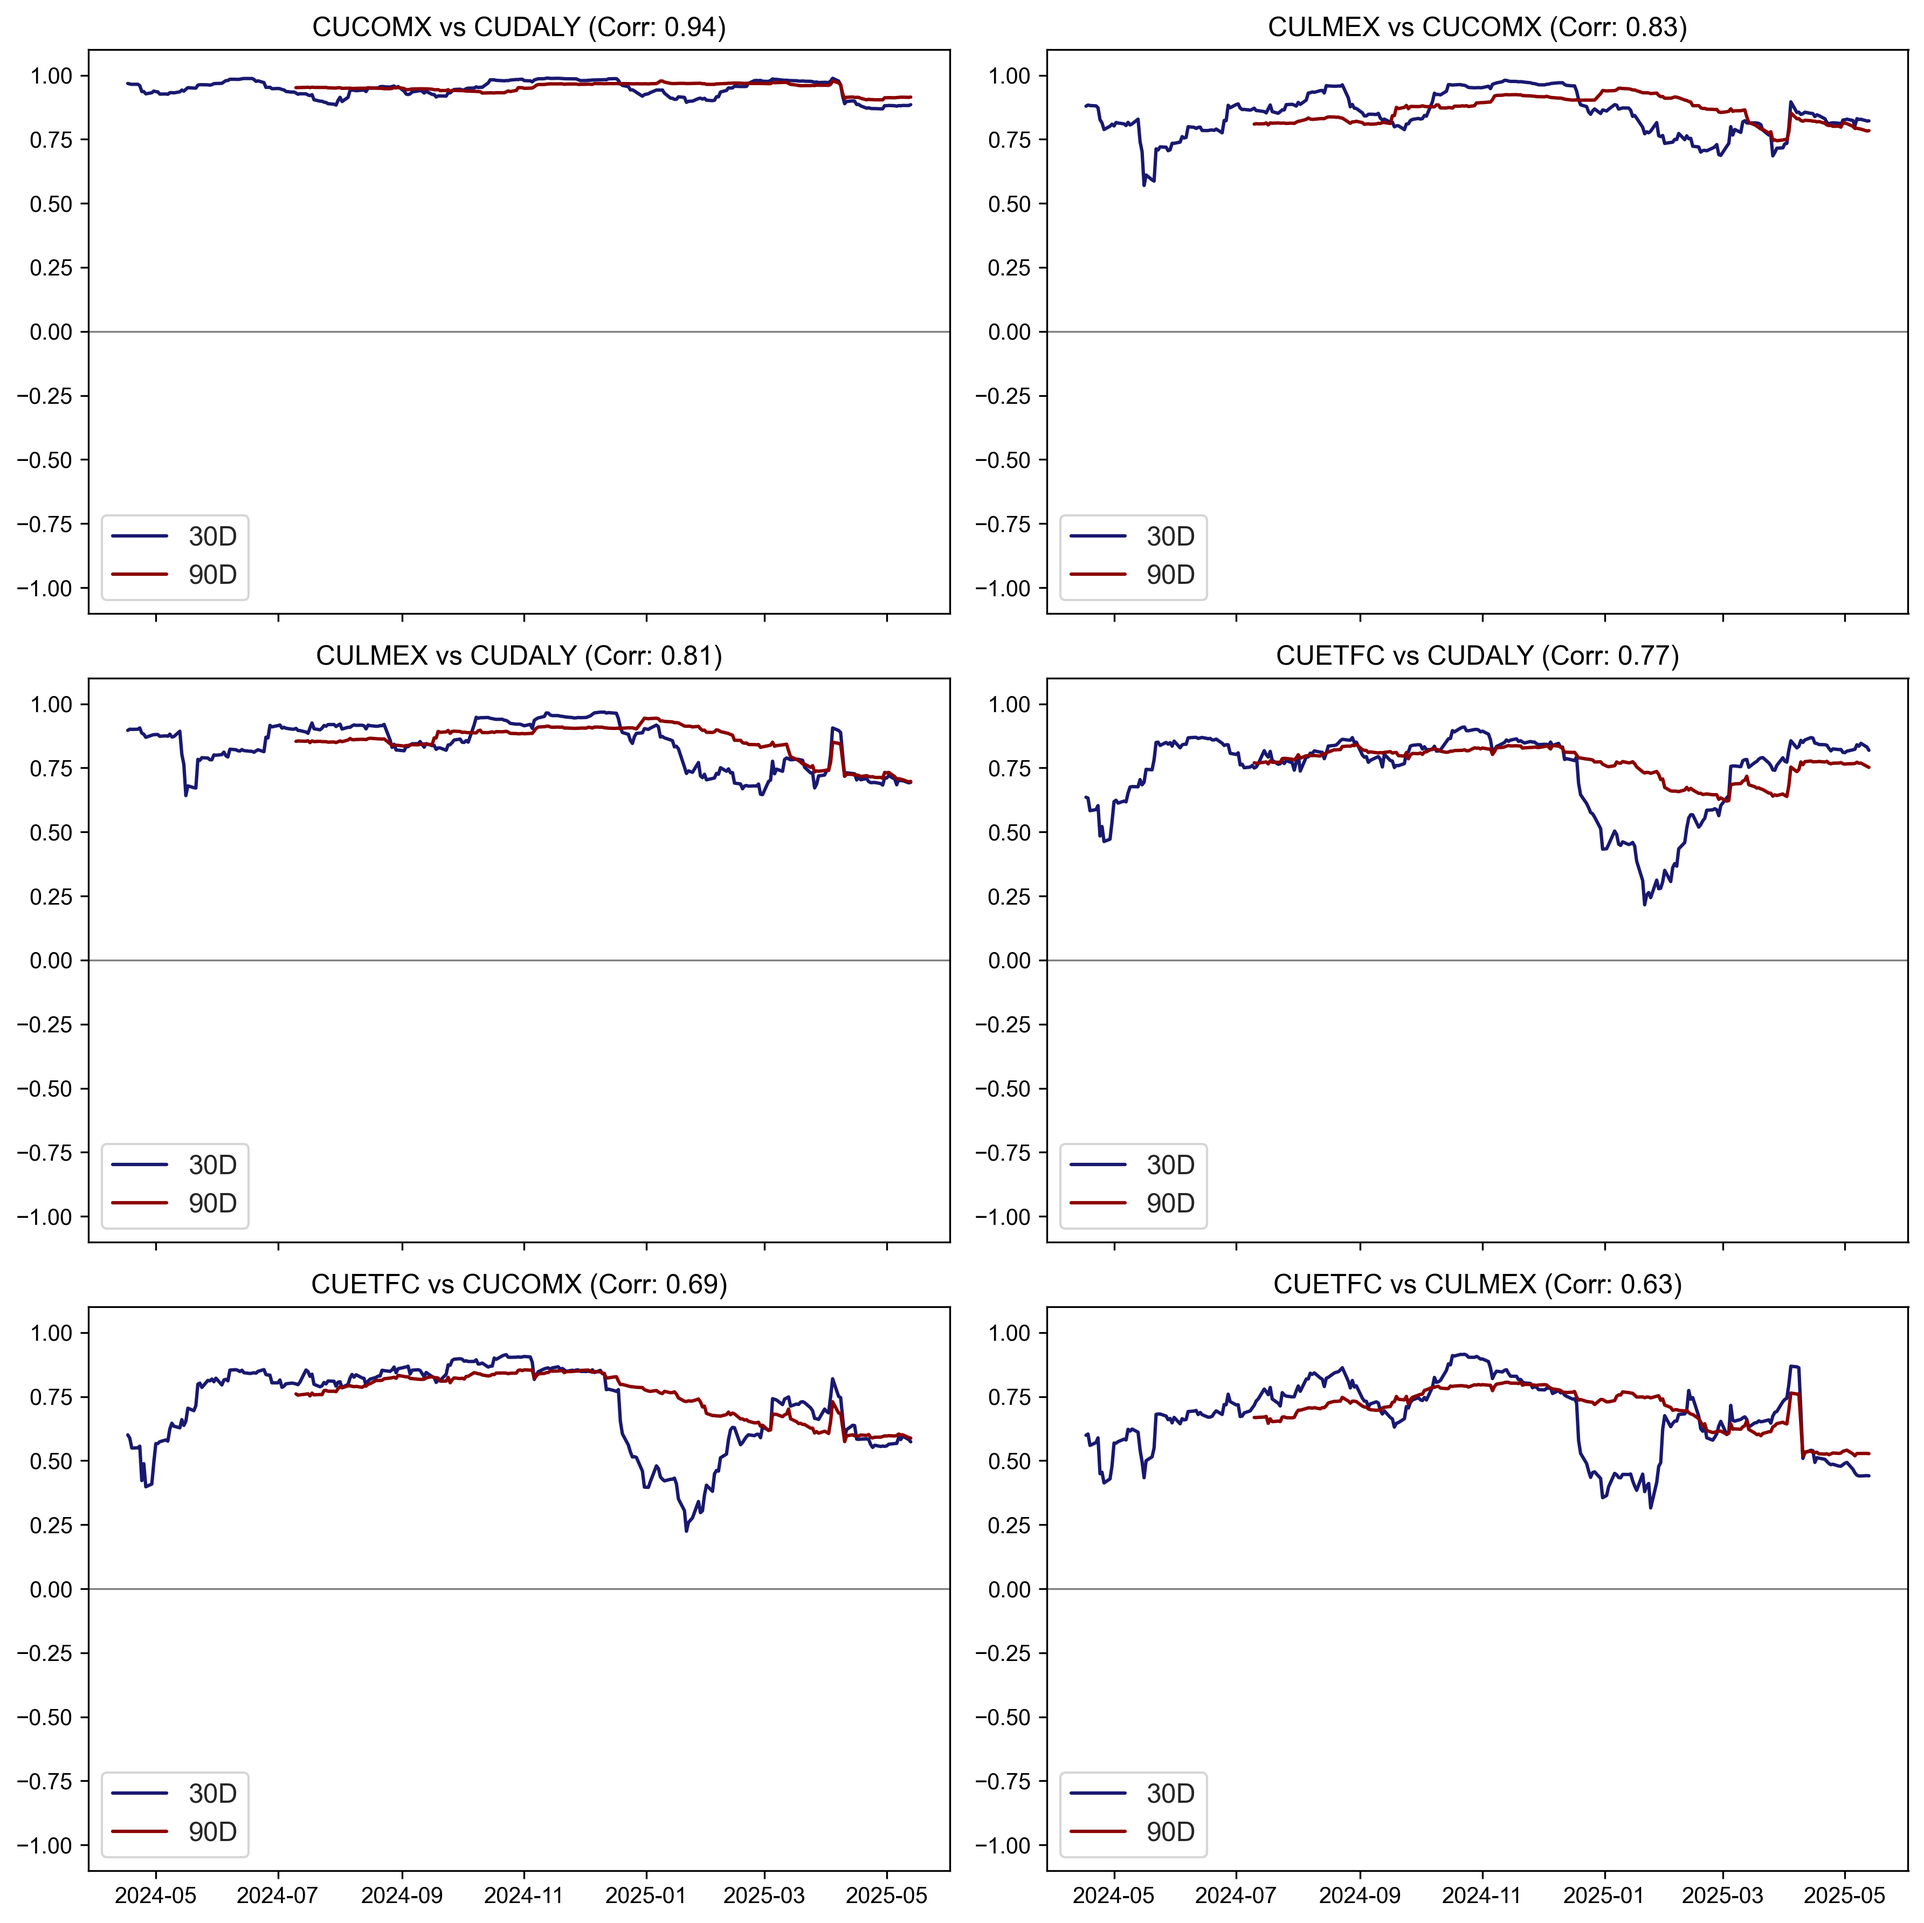
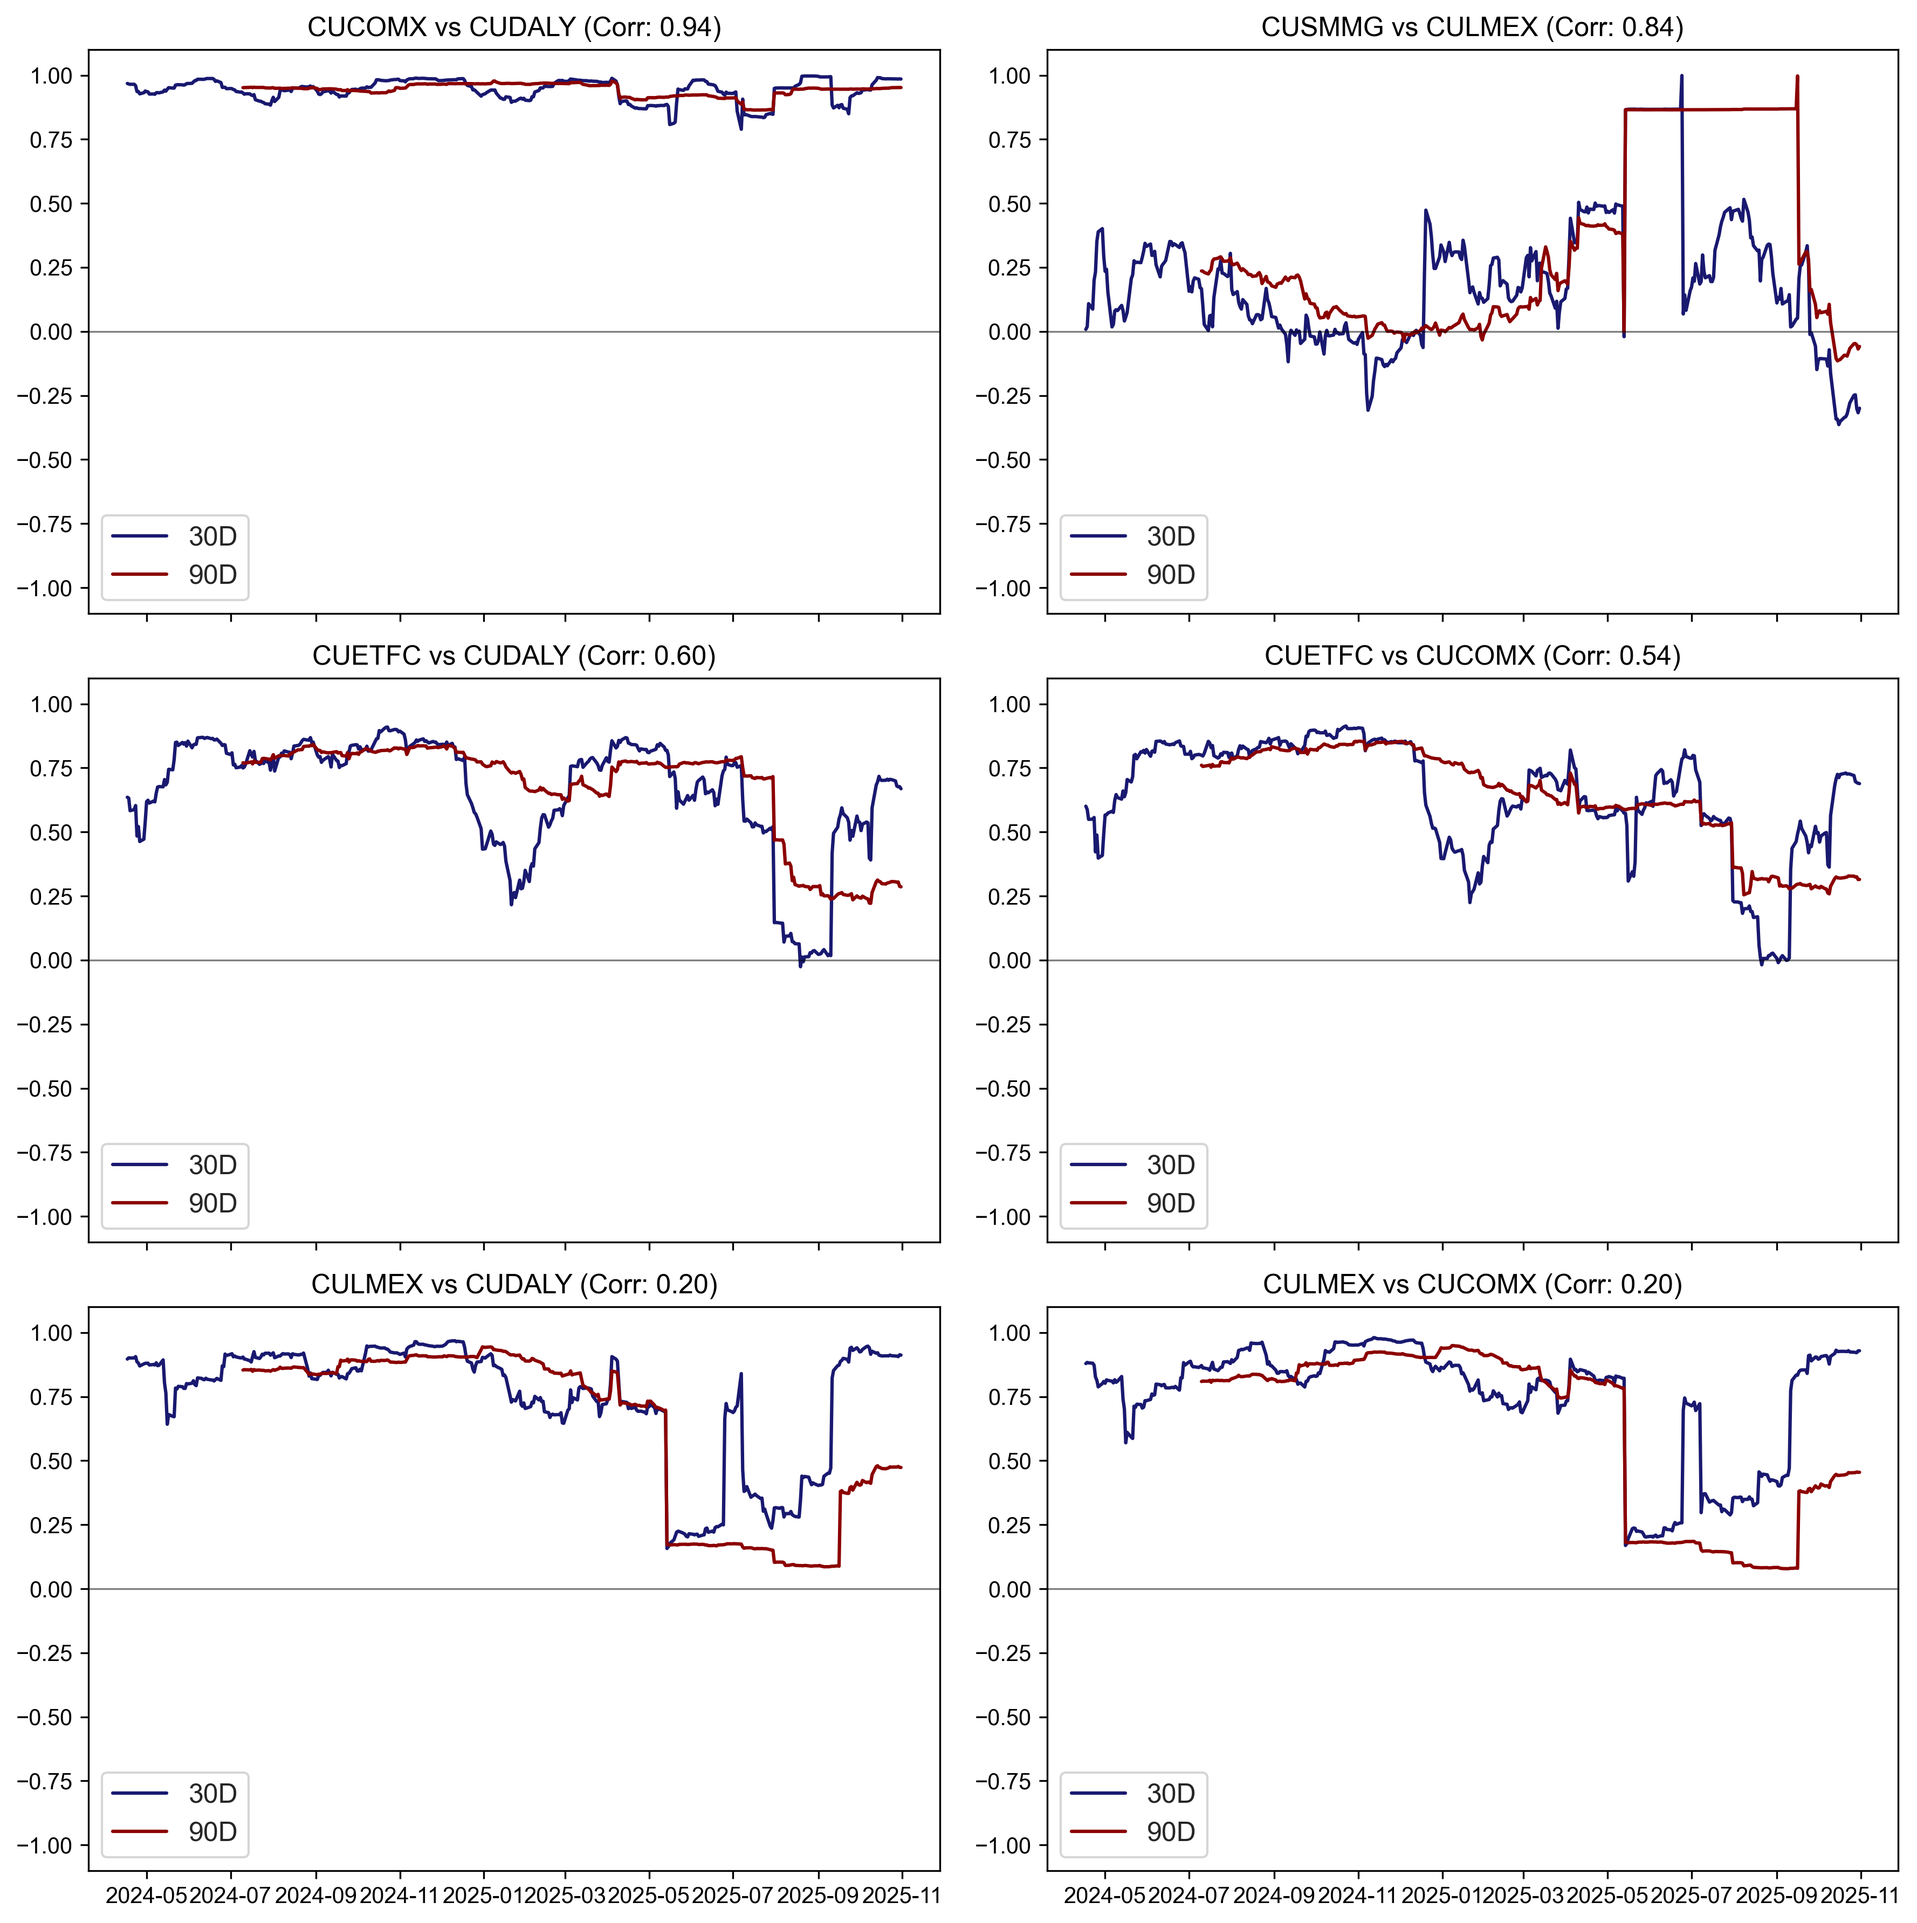
rolling window graphs

diff --git a/barb_experiments/metals_rolling_cor.py b/barb_experiments/metals_rolling_cor.py
@@ -117,7 +117,10 @@ if __name__ == "__main__":
     # Możesz podać listę plików ręcznie tutaj:
     files_to_process = [
         #"data/ALL_lithium_prices_interpolated.csv",
-         "data/ALL_copper_prices_cubic_spline.csv" 
+        # "data/ALL_copper_prices_cubic_spline.csv",
+        # "data/ALL_lithium_prices_cubic_spline.csv",
+        # "data/ALL_nickel_prices_cubic_spline.csv"
+           "data/ALL_cobalt_prices_cubic_spline.csv"
     ]
 
     # Tutaj definiujemy folder zapisu (względem miejsca uruchomienia skryptu)
